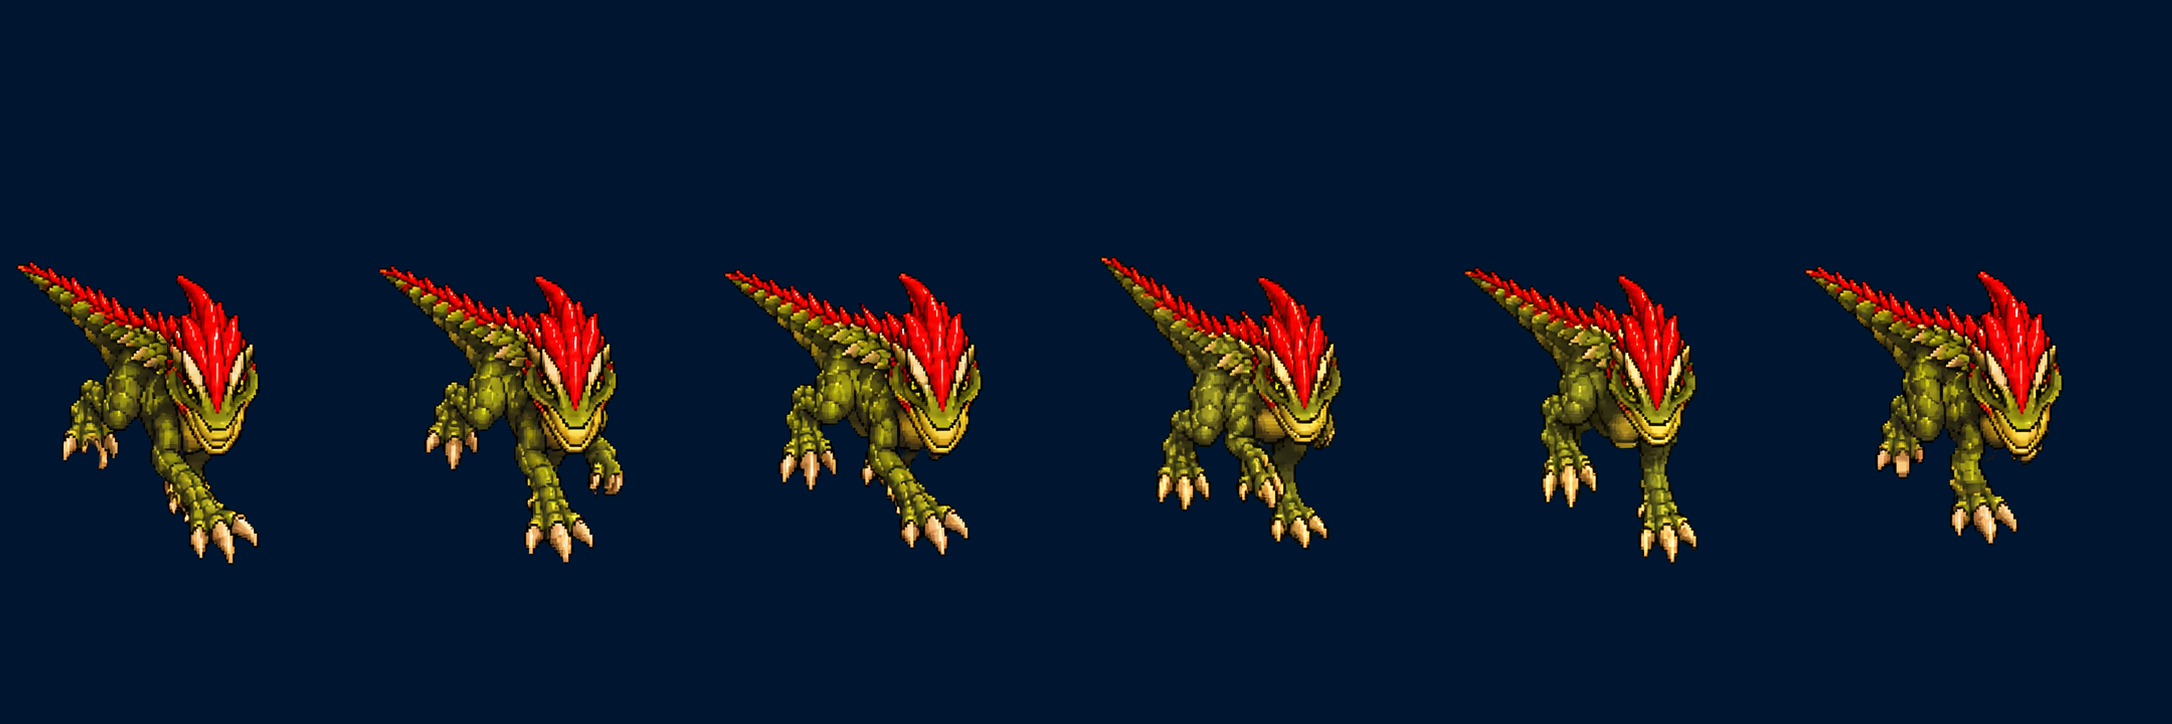
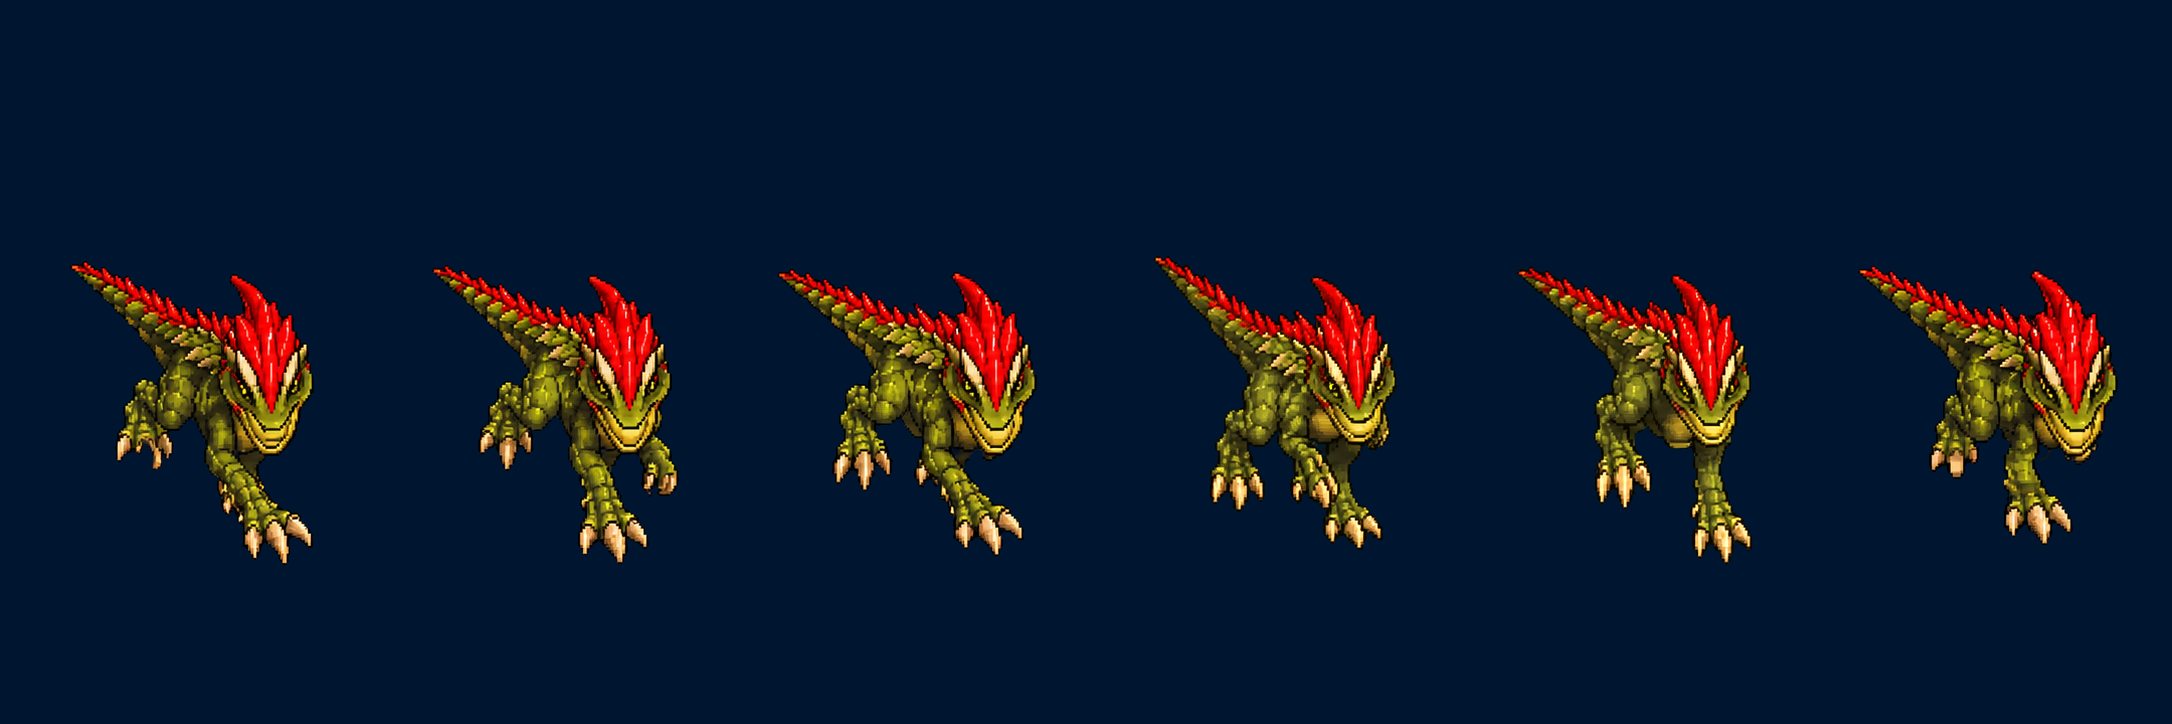
0.33.29: the Raptor's SE and NE run from the owner's art (SE: composite of two sheets); the combined win-rate study (docs/winrate_2026_11_12.md); CLAUDE.md
Claude-Session: https://claude.ai/code/session_01NtmEZhP1uA8k4DLQ7BYfMz

diff --git a/tools/import_gait_raptor.py b/tools/import_gait_raptor.py
@@ -7,7 +7,7 @@ sys.path.insert(0, __import__("os").path.dirname(__file__))
 import gait_lib as g
 
 P = {"*": {"legH": 8, "legw": 3, "boot_L": 4, "boot_h": 2, "amp": 4, "lift": 3, "knee": 2, "hip": 2, "spread": 2, "skip_bright": True}}
-PASS = g.Pass("raptor", (58, 30), P, dirs=("se", "ne"))
+PASS = g.Pass("raptor", (58, 30), P, dirs=())  # every view now from the owner's sheets (import_raptor_walk_sn.py)
 if __name__ == "__main__":
     PASS.run()
     if "--contact" in sys.argv:

diff --git a/tools/import_raptor_walk_sn.py b/tools/import_raptor_walk_sn.py
@@ -30,7 +30,7 @@ CELL = (58, 30)
 ANCHOR = (29, 28)
 FRAMES = 6
 SCALE = 0.068
-VIEWS = ("s", "n")
+VIEWS = ("s", "se", "ne", "n")   # SE and NE: 2026-11-13 (SE is Claude's composite of two sheets, art/redraws/SOURCES.txt)
 KEY_MIN = 12
 
 

diff --git a/docs/winrate_2026_11_12.md b/docs/winrate_2026_11_12.md
@@ -1,0 +1,67 @@
+# Win rates in every matchup (0.33.25), 2026-11-12
+
+The owner (2026-11-12 20:47): "Now do a gameplay coaching test to see the win rates in all match-ups." Three study jobs,
+no game code changed: docs/winrate-a.md (Crown v Brood, Crown v Clockwork), docs/winrate-b.md (Clockwork v Brood, Crown
+mirror), docs/winrate-c.md (Clockwork and Brood mirrors). Data in docs/winrate_2026_11_12/, films in docs/shots/winrate-*.
+
+Design (the 0.33.7 qa-matches design, docs/qa_2026_11_08_matches.md): Hard OPTIMAL v Hard OPTIMAL, all 19 two-player maps
+x 2 seeds, sides swapped between seeds, 38 games a pairing, 228 games, to 15:00. A draw's leader: income earned + 2 x army
+10% ahead. "Won or led" = won, or led a draw. Two filmed and coached games per pairing (more where the first film did not
+repeat the batch result). Noise: a won-or-led count moves about +-3 between two runs of the same 38.
+
+## All matchups
+
+| matchup (first side's view) | W-D-L | won or led: first / second / even | decided (mean length) | spot A v B | 0.33.7 W-D-L (won or led) |
+|---|---|---|---|---|---|
+| Crown v Brood | 0-11-27 | 0 / 36 / 2 | 27 (12:26) | 13 v 14 (even) | 0-13-25 (0) |
+| Crown v Clockwork | 0-30-8 | 5 / 31 / 2 | 8 (13:01) | 5 v 3 (even) | 1-34-3 (4) |
+| Clockwork v Brood | **11-15-12** | **20 / 17 / 1** | 23 (12:28) | classic maps: A 15 of 18 (p 0.008) | 2-22-14 (12) |
+| Crown v Crown (P1) | 3-35-0 | 16 / 18 / 4 | 3 (13:32) | even | 2-36-0 (17) |
+| Clockwork v Clockwork (P1) | **13-18-7** | 19 / 13 / 6 | **20** (13:07) | even | 0-38-0 (19) |
+| Brood v Brood (P1) | 11-25-2 | 23 / 9 / 6 | 13 (12:26) | named maps: A 15-3 (p 0.01) | 14-16-8 (21) |
+
+No game crashed or stalled; one script error (Unit._pick_pistol on a freed instance, scripts/unit.gd:966, one game).
+
+## What it says
+
+1. **The Crown computer still beats neither Hard computer**: 0 wins in 76 games, won or led 5 (all v the Clockwork's
+   Springer timing). Its income at 8:00 is 0.79 of the Brood's (was 0.68: real) and 0.68 of the Clockwork's (unchanged).
+2. **Against the Brood the Crown's opening read is wrong**: OPTIMAL reads nearly every Brood as GREEDY (its Mound Turtle on
+   new ground counts as a second base), opens the Horseman rush in 30 of 38, and the rush fails in 33 of 38 (the Brood
+   makes Raptors on sight). The hand-over to Economy then idles the Barracks for 1.5-2.5 minutes and the Brood's 6:30-7:30
+   wave takes the natural. Its army stalls from 5:00 to 6:00 while the Brood's climbs.
+3. **Against the Clockwork the Crown's line works but the Crown does not win**: its army at 8:00 rose from 0.31 to 0.91 of
+   the Clockwork's (the clearest change in the study; the line and guns hold the early pushes, held 13 times, was 5), then
+   from 8:00 its waves trade the army away without taking a hall. 30 of 38 draws.
+4. **Clockwork v Brood is now a fair coin** (won or led 20 v 17, was 12 v 23): the clockwork-v-brood coaching worked. But
+   spot A on the 9 classic maps won or led 15 of 18, the strongest start-spot signal in the study.
+5. **The Clockwork mirror ends games now** (20 decided, was 0); most draws left are wins the 15:00 bell cut.
+6. **The Crown mirror still does not end** (35 of 38 draws; 14 of them lopsided and unfinished).
+7. **The Brood mirror is richer and evener** (income at 8:00 +71%, the two sides within 9%), ends less often (13 decided,
+   was 22), and leans to spot A on the named maps (15-3; start-spots-fix found the same).
+
+## The main proposals (none applied; details in each doc)
+
+Crown AI (gated by matchup like the coaching fixes):
+- **No blind Horseman rush v the Brood** (a Mound Turtle alone is not GREEDY; a rush that meets 8+ Raptors turns to
+  harass outlying Rootmaws) (winrate-a A).
+- **A soldier floor in every hand-over**: the Barracks keep training until the army is 0.7 of the enemy's reckoned (B).
+- **Forget a beaten army** (the reckoning falls when the Crown kills it) and go out from the gate after a won fight (D).
+- **The second hall by 5:00 v the Clockwork** now that the line holds (E); **the wave keeps its line inside the enemy's
+  base** (F).
+- Crown mirror: Dragoon raids keeps its labourers coming or leaves the blind table; the hunt over a token army a little
+  wider (b 7, 9).
+
+Clockwork AI: the next push goes on the enemy's army now, not 1.25x the last push (b 1); close up before the enemy's gears
+(c 4); pick the Springer timing less v the Crown; finish a hall-less enemy (a G).
+
+Brood AI: a wave that just broke the enemy army goes on to the Mother at once; mixed waves at the cap; supply a minute
+earlier (c Brood 2-3); spend banks over 1,000 (b 4).
+
+Rules and balance (the owner's call):
+- **The Crown's income** is the root of both Crown matchups (see the economy-parity job, docs/economy_parity.md when
+  done: it nerfs the others instead of buffing the Crown, as the owner asked).
+- **Start spots**: the classic maps' spot A in Clockwork v Brood and the named maps' spot A in the Brood mirror: replay
+  with more seeds first, then look at what differs at spot A.
+- **A hall-less side with workers but no gold or production** could count as beaten (5 Crown v Clockwork draws).
+- **Studies to 20:00**: at 15:00 the win rate is mostly "who led"; many draws are wins the bell cut.

diff --git a/docs/art_style_inconsistency.md b/docs/art_style_inconsistency.md
@@ -19,7 +19,7 @@ Source snapshots of the pristine strips are in `art/redraws/gait_src/`.
 | Armoured Musketeer (Guardsman) | walk, all five views | import_gait_musketeer_armoured.py | prompt 16 (guardsman_walk) also covers a redraw |
 | Musketeer | 2026-11-07 (0.33.7): the walk is the owner's ChatGPT walk in all five views (tools/import_musket_walk.py); CODE EDITS left in it: the east and north-east sheets drew a second musket barrel behind his head (erased: every pixel left of the hat's edge under the brim), and the north sheet's back of the head was a flat brown blob (recoloured to hair streaks with a black ribbon down the middle). A redraw of those two details would retire the edits. |
 | Armoured Musketeer, Musketeer | 2026-10-24: legs replaced by the labourer's ChatGPT walk legs (both Musketeers' are recoloured silver-grey; his ChatGPT walk with the red plumed hat was dropped) by the labourer's ChatGPT-drawn walk legs (import_crown_legs.py, runs after the code gait pass, which is now superseded; the musket's stock and hands are kept; the north walk also gets the dismounted Cuirassier's steel back plate pasted on) | import_crown_legs.py | the armoured musketeer's code legs are gone; mixed boot style until a ChatGPT redraw |
-| Raptor (Brood) | 2026-11-12 (0.33.26): walk_s and walk_n are the owner's ChatGPT runs (tools/import_raptor_walk_sn.py, one scale for both, the sheet's own ground kept so the contact frames reach lower); NO code legs left in S and N. Still code legs: walk_se, walk_ne (the ChatGPT SE/NE answers of 2026-11-12 came back as side views and were not used) | import_gait_raptor.py (se, ne only) | SE and NE to redo (docs/art_redraw_queue.md item 6) |
+| Raptor (Brood) | 2026-11-13 (0.33.29): every run view is the owner's ChatGPT art: walk_s and walk_n (0.33.27), walk_se (Claude's composite of the best frames of two SE sheets, art/redraws/SOURCES.txt) and walk_ne (the redo), all through tools/import_raptor_walk_sn.py at one scale; walk_e was already painted. NO code legs left in the run | (import_gait_raptor.py now rebuilds no view) | done |
 | Clock Soldier (Clockwork) | 2026-11-12 (0.33.26): the walk in all EIGHT views is the owner's ChatGPT march (art/redraws/clock_soldier_walk_<d>_chatgpt.png, tools/import_clock_soldier.py WALK_VIEWS): the code legs of walk_code.py, rig.py and soldier_guide/west.py are retired from the walk. CODE EDITS left: the palette (red body and blue shoulders to brass, cap = team colour, as every strip of his), and in SW / NW a sliver of the red body's underside between the legs is painted from the brass round it (stray_team). SHIELD FORWARD's guard_walk is still built in code from the OLD code-legged walk (kept in art/redraws/clock_soldier_walk_code_src/) | import_clock_soldier.py; soldier_guide/shield.py (guard_walk) | guard_walk: the shield-forward walk still skates on code legs until its own ChatGPT walk (docs/clock_soldier_shield.md) |
 
 Shared code: tools/gait_lib.py. Audit and ranking: docs/animation_gait_audit.md (tools/audit_walk_gait.py).

diff --git a/CLAUDE.md b/CLAUDE.md
@@ -84,7 +84,17 @@
   OWNER 2026-11-12 20:47: WIN RATES IN ALL MATCHUPS, coached: study jobs winrate-a (Crown v Brood, Crown v Clockwork),
   winrate-b (Clockwork v Brood, Crown mirror), winrate-c (Clockwork and Brood mirrors): the 0.33.7 qa-matches design (19
   maps x 2 seeds, 15:00), 2 filmed games per pairing with coach's notes and proposals (no code changes); combine into
-  docs/winrate_2026_11_12.md.
+  docs/winrate_2026_11_12.md. MERGED 2026-11-13 (docs/winrate_2026_11_12.md has the table and the proposals, none
+  applied): the Crown computer 0 wins in 76 (v Brood 0-11-27, v Clockwork 0-30-8; its blind Horseman rush v every Brood
+  read as GREEDY fails 33 of 38); Clockwork v Brood now even (11-15-12); Clockwork mirror ends (20 decided, was 0); Crown
+  mirror 35 of 38 draws; Brood mirror leans to spot A on the named maps, Clockwork v Brood to spot A on the classic maps.
+  OWNER 2026-11-12 21:04: ALL ECONOMIES ABOUT EQUAL PER MINUTE, by NERFING the Clockwork and Brood (not buffing the
+  Crown), a slower game; asked which RTS the pace resembles. Job economy-parity (branch, docs/economy_parity.md): a
+  scripted bench, proposed nerfs applied ON THE BRANCH ONLY, games, the pace compared; DO NOT MERGE until the owner OKs.
+  ART 2026-11-12/13: the Clockwork and Brood campaign hubs (hubs-cw-brood 0.33.26: Hollweg's workshop, Lindqvist's
+  station), the Clock Soldier's 8-way walk and the Raptor's S/N run (walks-raptor-clock 0.33.27), the rebels' back
+  views, Varenne's calm idles, the pikeman's S/SE pike (rebel-art-2 0.33.28), the Raptor's SE (Claude's composite of two
+  sheets) and NE run (0.33.29): no code legs left in the Raptor's run.
 - CROWN HOLDS ITS WALLED NATURAL (owner's playtest 2026-11-06, Dune Sea; job crown-hold, 0.33.1, docs/crown_hold.md): the
   natural's GATE on the palisade stretch nearest the main's ramp foot (AIExpandWall._gate_by_ramp); once that wall is 70%
   closed with its gate up the army's HOME post is DOWN at the gate (AICrownHold section 7, the gate post; ramp post = main

diff --git a/docs/art_redraw_queue.md b/docs/art_redraw_queue.md
@@ -579,7 +579,7 @@ Pixel art: hard square pixels, NO anti-aliasing, no blur, no glow; a dark outlin
 Background: one flat solid navy colour, exactly RGB 0, 22, 48 (#001630), nothing else on it: no labels, grid, ground or shadow. Layout: ONE row of 6 figures, left to right = frames 1 to 6, all on the same invisible ground line, each the same size as in image 1, at least 30 px of navy between them, none touching or cut by the edge. Landscape image 1536 x 1024 pixels. Deliver a PNG file (not a JPEG, not a screenshot).
 ```
 
-### Item 6: Raptor walk, S, SE, NE, N (one request per view; E is kept)
+### Item 6: Raptor walk, S, SE, NE, N (one request per view; E is kept) - DONE 0.33.27 (S, N) and 0.33.29 (SE composite, NE redo)
 
 S and N DONE 2026-11-12 (0.33.26, table item 11). SE and NE TO REDO: the answers came back as side views (the raptor seen from its flank, not three-quarter), so they were not imported. A composite SE (raptor_walk_se_chatgpt.png, best frames of raptor_walk_se_a/b) and a NE redo were added to art/redraws/ after this job was set; they are not imported yet (look at them before a next import).
 

diff --git a/README.md b/README.md
@@ -2,7 +2,7 @@
 
 *(a working title: the game was called Holdfast until October 2026, but that name belongs to another game; the web address, the app file and the repository keep the old name for now so links and installs keep working)*
 
-**Play in your browser (version 0.33.28): https://holdfastrts.github.io/Holdfast/**
+**Play in your browser (version 0.33.29): https://holdfastrts.github.io/Holdfast/**
 
 **Windows program: https://holdfastrts.github.io/Holdfast/Holdfast_windows.zip** (rebuilt on every push; unzip it and run Holdfast.exe; if Windows warns "Windows protected your PC", click More info, then Run anyway)
 
